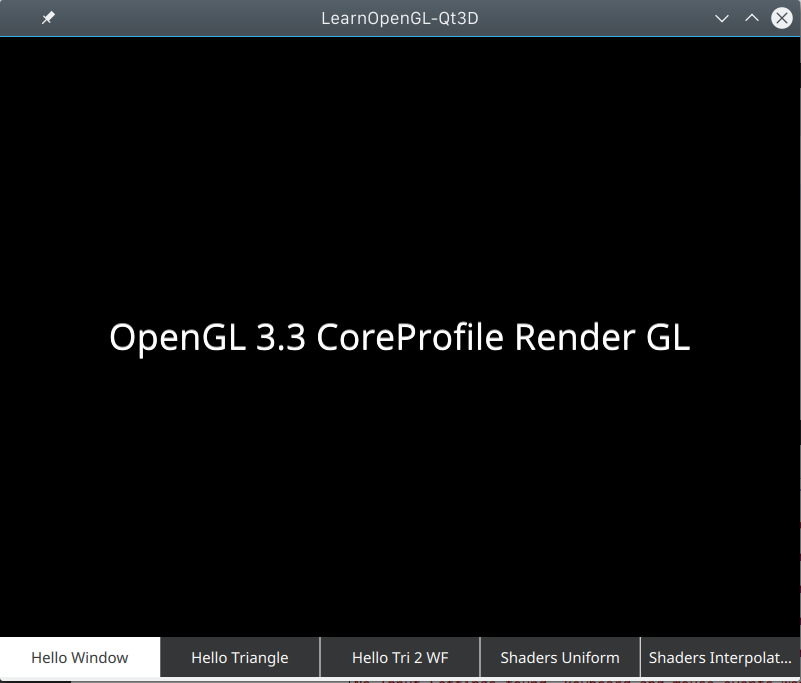
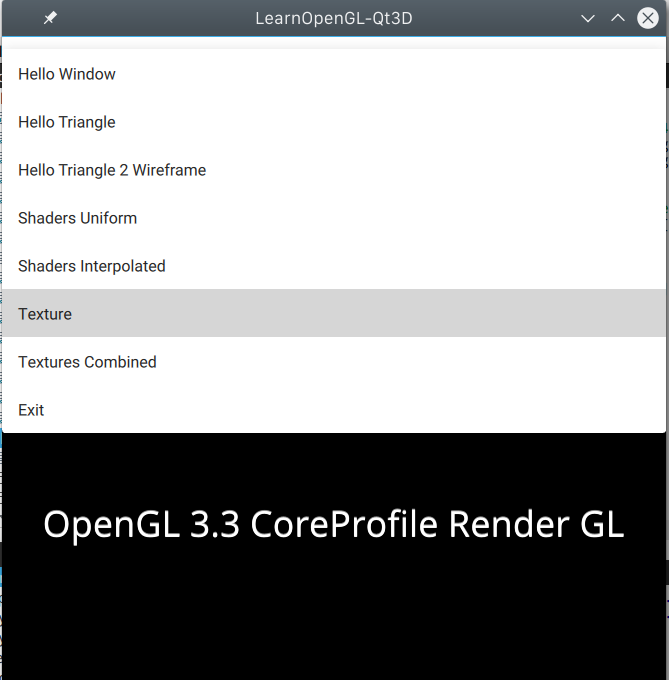
update to Chapter07.Transformations

diff --git a/qml/transformations.qml b/qml/transformations.qml
@@ -12,36 +12,70 @@ Scene0 {
 		RenderSettings0 {}
 
 		Entity {
-			id: background
+			id: entity
 			components: [geometry, material]
 
 			Material {
 				id: material
 				effect: Effect {
 					techniques: Technique {
-						renderPasses: RenderPass {
-							renderStates: CullFace { mode: CullFace.NoCulling }
-							shaderProgram: ShaderProgram0 {
-								vertName: "texture"
-								fragName: "texture"
+						renderPasses: [
+							RenderPass {
+								renderStates: CullFace { mode: CullFace.NoCulling }
+								shaderProgram: ShaderProgram0 {
+									vertName: "transformations"
+									fragName: "textures_combined"
+								}
+								parameters: [
+									Parameter {
+										name: "ourTexture1"
+										value: Texture2D {
+											TextureImage0 {
+												fileName: "container.jpg"
+											}
+										}
+									},
+									Parameter {
+										name: "ourTexture2"
+										value: Texture2D {
+											TextureImage0 {
+												fileName: "awesomeface.png"
+											}
+										}
+									},
+									Parameter {
+										name: "transform"
+										value: (function(){
+											var m = Qt.matrix4x4()
+											m.translate(Qt.vector3d(.5, -.5, 0))
+											m.rotate(entity.rotation, Qt.vector3d(0, 0, 1))
+											return m
+										})()
+									}
+								]
+							},
+							RenderPass {
+								renderStates: CullFace { mode: CullFace.NoCulling }
+								shaderProgram: ShaderProgram0 {
+									vertName: "transformations"
+									fragName: "textures_combined"
+								}
+								parameters: [
+									Parameter {
+										name: "transform"
+										value: (function(){
+											var m = Qt.matrix4x4()
+											m.rotate(entity.rotation, Qt.vector3d(0, 0, 1))
+											m.translate(Qt.vector3d(.5, -.5, -.1)) // z!
+											return m
+										})()
+									}
+								]
 							}
-						}
+						]
 					}
 
-					parameters: Parameter {
-						name: "ourTexture"
-						value: Texture2D {
-							minificationFilter: Texture.Nearest
-							magnificationFilter: Texture.Nearest
-							wrapMode {
-								x: WrapMode.ClampToEdge
-								y: WrapMode.ClampToBorder
-							}
-							TextureImage0 {
-								fileName: "container.jpg"
-							}
-						}
-					}
+
 				}
 			}
 
@@ -117,6 +151,19 @@ Scene0 {
 						}
 					}
 				}
+			}
+
+			property real rotation
+
+			QQ2.NumberAnimation {
+				target: entity
+				property: "rotation"
+				duration: 360*1000/50
+				from: 0
+				to: 360
+
+				loops: QQ2.Animation.Infinite
+				running: true
 			}
 		}
 	}

diff --git a/qml/shadersuniform.qml b/qml/shadersuniform.qml
@@ -29,7 +29,7 @@ Scene0 {
 					}
 
 					parameters: Parameter {
-						id: parameters
+						id: ourColor
 						name: "ourColor"
 						value: Qt.vector4d(0, greenValue, 0, 1)
 
@@ -37,7 +37,7 @@ Scene0 {
 						property real timeValue
 
 						QQ2.NumberAnimation {
-							target: parameters
+							target: ourColor
 							property: "timeValue"
 							duration: Math.PI * 2000
 							from: 0

diff --git a/qml/Examples.qml b/qml/Examples.qml
@@ -8,6 +8,7 @@ ListModel {
 	ListElement { text: "Shaders Interpolated"			; source: "shadersinterpolated"}
 	ListElement { text: "Texture"			; source: "texture"}
 	ListElement { text: "Textures Combined"			; source: "textures_combined"}
+	ListElement { text: "Transformations"			; source: "transformations"}
 	ListElement { text: "Exit"}
 }
 
